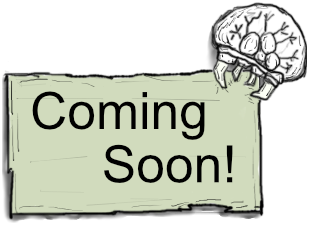
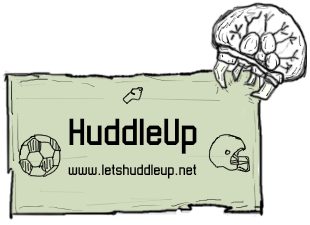
added huddleup

diff --git a/index.html b/index.html
@@ -75,18 +75,19 @@
 
             <div class="slide">
                 <div class="projectPage">
-                    <h1>Super Fighting Blackjack</h1>
+                    <h1>HuddleUp</h1>
                     <div class="pLeftBlock">
-                        <img src="./media/blackjackb.gif" alt="">
+                        <img src="./media/huddleupposter.png" alt="">
                     </div>
                     <div class="pRightBlock">
-                        <img class="descSign" src="./media/blackjacksign.png" alt="">
-                        <a href="http://blackjack.jamesmarion.net" target="_blank"><img class="demoSign" src="./media/demosign.png" alt=""></a>
-                        <a href="https://github.com/jwmarion/DC_super_blackjack_2_hyperfighting" target="_blank"><img class="gSign" src="./media/gitsign.png" alt=""></a>
+                        <img class="descSign" src="./media/huddleupsign.png" alt="">
+                        <a href="http://letshuddleup.net" target="_blank"><img class="demoSign" src="./media/demosign.png" alt=""></a>
+                        <a href="https://github.com/juliemdyer/Huddle-Up" target="_blank"><img class="gSign" src="./media/gitsign.png" alt=""></a>
                         <img class="bSign" src="./media/projectsign.png" alt="">
                     </div>
                 </div>
             </div>
+
         </div>
         <!-- </div>
   <img class="bubbleWave" src="./media/bubblea.png" alt="">

diff --git a/main.js b/main.js
@@ -6,16 +6,13 @@ $(document).ready(function () {
   });
   $('.projects').on('click','img:nth-of-type(1)', function(){
     $.fn.fullpage.moveTo('page2', 1);
-    console.log('yes');
   });
   $('.projects').on('click','img:nth-of-type(2)', function(){
     $.fn.fullpage.moveTo('page2', 2);
-    console.log('yes');
   });
-  // $('.projects').on('click','img:nth-of-type(3)', function(){
-  //   $.fn.fullpage.moveTo('page2', 3);
-  //   console.log('yes');
-  // });
+  $('.projects').on('click','img:nth-of-type(3)', function(){
+    $.fn.fullpage.moveTo('page2', 3);
+  });
   $('.pRightBlock').on('click','img:nth-of-type(2)', function(){
     $.fn.fullpage.moveTo('page2', 0);
     console.log('yes');
